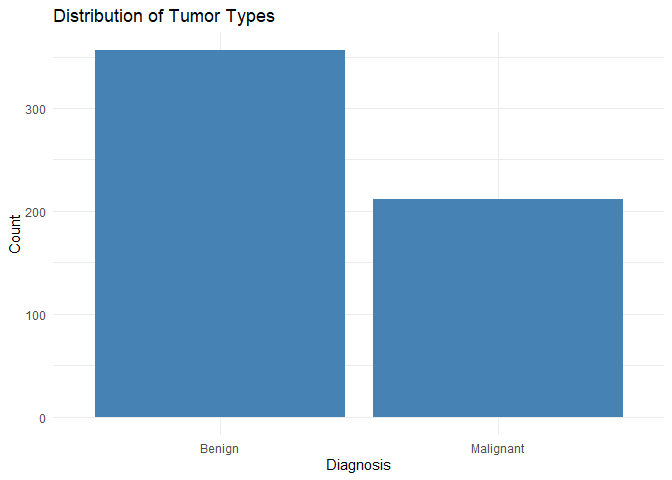
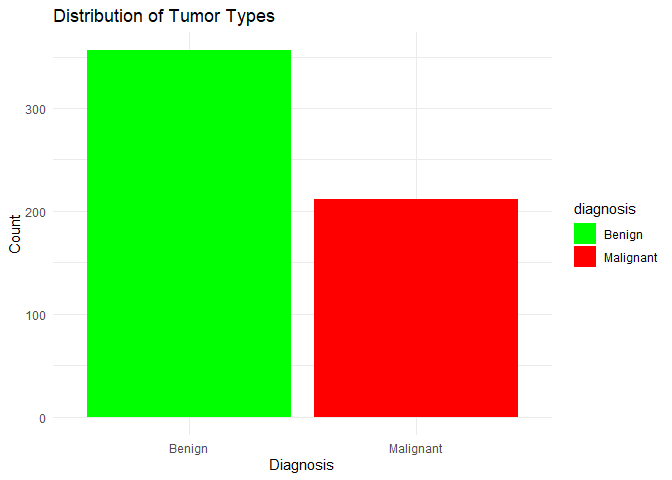
Alteration after lecturer feedback

diff --git a/README.md b/README.md
@@ -403,9 +403,10 @@ set.
 ### Visual 1 (Tumor Type Distribution Bar Plot)
 
 ``` r
-# Show how many benign vs malignant cases there are
-ggplot(dataClean, aes(x = diagnosis)) +
-  geom_bar(fill = "steelblue") +
+# Bar plot with custom colors
+ggplot(dataClean, aes(x = diagnosis, fill = diagnosis)) +
+  geom_bar() +
+  scale_fill_manual(values = c("Benign" = "green", "Malignant" = "red")) +
   labs(title = "Distribution of Tumor Types", x = "Diagnosis", y = "Count") +
   theme_minimal()
 ```
@@ -423,7 +424,7 @@ might become biased toward predicting the majority class (benign), so
 additional techniques like resampling or adjusting evaluation metrics
 may be considered in future modeling steps.
 
-### Visual 2 (Feature Correlation Heatmap)
+### Visual 2 (Feature Correlation Barplot)
 
 ``` r
 # Convert diagnosis to numeric
@@ -439,11 +440,18 @@ cor_df <- data.frame(Feature = names(cor_with_diag), Correlation = cor_with_diag
 # Sort by absolute correlation
 cor_df <- cor_df %>% arrange(desc(abs(Correlation)))
 
-ggplot(cor_df, aes(x = reorder(Feature, Correlation), y = Correlation)) +
-  geom_col(fill = "steelblue") +
+cor_df$Direction <- ifelse(cor_df$Correlation >= 0, "Malignant", "Benign")
+
+ggplot(cor_df, aes(x = reorder(Feature, Correlation), y = Correlation, fill = Direction)) +
+  geom_col() +
   coord_flip() +
-  labs(title = "Correlation of Features with Diagnosis (Malignant = 1, Benign = 0)",
-       x = "Feature", y = "Pearson Correlation") +
+  scale_fill_manual(values = c("Malignant" = "red", "Benign" = "green")) +
+  labs(
+    title = "Correlation of Features with Diagnosis (Malignant = 1, Benign = -1)",
+    x = "Feature",
+    y = "Pearson Correlation",
+    fill = "Correlation Direction"
+  ) +
   theme_minimal()
 ```
 
@@ -595,7 +603,7 @@ mean_data %>%
   geom_boxplot() +
   labs(title = "Mean Characteristics (Excluding Area) by Diagnosis",
        x = "Feature", y = "Value") +
-  scale_fill_manual(values = c("Benign" = "skyblue", "Malignant" = "salmon")) +
+  scale_fill_manual(values = c("Benign" = "green", "Malignant" = "red")) +
   theme_minimal() +
   theme(axis.text.x = element_text(angle = 45, hjust = 1))
 ```
@@ -607,7 +615,7 @@ mean_data %>%
 ggplot(mean_data, aes(x = diagnosis, y = area_mean, fill = diagnosis)) +
   geom_boxplot() +
   labs(title = "Area Mean by Diagnosis", x = "Diagnosis", y = "Area Mean") +
-  scale_fill_manual(values = c("Benign" = "skyblue", "Malignant" = "salmon")) +
+  scale_fill_manual(values = c("Benign" = "green", "Malignant" = "red")) +
   theme_minimal()
 ```
 
@@ -665,7 +673,7 @@ for (feature in top_features) {
     geom_histogram(position = "identity", alpha = 0.6, bins = 30) +
     labs(title = paste("Distribution of", feature, "by Diagnosis"),
          x = feature, y = "Count") +
-    scale_fill_manual(values = c("Benign" = "skyblue", "Malignant" = "salmon")) +
+    scale_fill_manual(values = c("Benign" = "green", "Malignant" = "red")) +
     theme_minimal() +
     theme(legend.position = "top")
 
@@ -705,7 +713,7 @@ types. The distinct separation in their distributions provides valuable
 insight into the measurable differences that can aid in accurate
 diagnosis.
 
-## Simple Logistric Regression Model
+## Simple Logistic Regression Model
 
 ``` r
 # Split data
@@ -714,42 +722,33 @@ train_idx <- createDataPartition(dataClean$diagnosis_num, p = 0.8, list = FALSE)
 train_data <- dataClean[train_idx, ]
 test_data <- dataClean[-train_idx, ]
 
-# Train logistic regression using top 5 features
-log_model <- glm(diagnosis_num ~ radius_mean + perimeter_mean + area_mean + 
-                   concavity_mean + `concave points_mean`, 
+# Train logistic regression using top 3 features
+log_model <- glm(diagnosis_num ~ radius_mean + concavity_mean + `concave points_mean`, 
                  data = train_data, family = "binomial")
-```
-
-    ## Warning: glm.fit: fitted probabilities numerically 0 or 1 occurred
-
-``` r
 summary(log_model)
 ```
 
     ## 
     ## Call:
-    ## glm(formula = diagnosis_num ~ radius_mean + perimeter_mean + 
-    ##     area_mean + concavity_mean + `concave points_mean`, family = "binomial", 
-    ##     data = train_data)
+    ## glm(formula = diagnosis_num ~ radius_mean + concavity_mean + 
+    ##     `concave points_mean`, family = "binomial", data = train_data)
     ## 
     ## Coefficients:
     ##                       Estimate Std. Error z value Pr(>|z|)    
-    ## (Intercept)            6.12554    8.17788   0.749   0.4538    
-    ## radius_mean           -2.12329    2.33922  -0.908   0.3640    
-    ## perimeter_mean        -0.01753    0.27447  -0.064   0.9491    
-    ## area_mean              0.03316    0.01403   2.364   0.0181 *  
-    ## concavity_mean        -2.10115    6.42815  -0.327   0.7438    
-    ## `concave points_mean` 91.97885   20.38786   4.511 6.44e-06 ***
+    ## (Intercept)           -13.7852     1.8442  -7.475 7.73e-14 ***
+    ## radius_mean             0.6553     0.1304   5.025 5.03e-07 ***
+    ## concavity_mean          2.9201     5.7627   0.507    0.612    
+    ## `concave points_mean`  77.0047    17.7926   4.328 1.51e-05 ***
     ## ---
     ## Signif. codes:  0 '***' 0.001 '**' 0.01 '*' 0.05 '.' 0.1 ' ' 1
     ## 
     ## (Dispersion parameter for binomial family taken to be 1)
     ## 
     ##     Null deviance: 609.93  on 454  degrees of freedom
-    ## Residual deviance: 164.65  on 449  degrees of freedom
-    ## AIC: 176.65
+    ## Residual deviance: 170.90  on 451  degrees of freedom
+    ## AIC: 178.9
     ## 
-    ## Number of Fisher Scoring iterations: 8
+    ## Number of Fisher Scoring iterations: 7
 
 ``` r
 # Predict probabilities
@@ -767,26 +766,26 @@ confusionMatrix(factor(pred_class), factor(test_data$diagnosis_num),
     ## 
     ##           Reference
     ## Prediction  0  1
-    ##          0 75  5
-    ##          1  5 28
+    ##          0 76  4
+    ##          1  4 29
     ##                                           
-    ##                Accuracy : 0.9115          
-    ##                  95% CI : (0.8433, 0.9567)
+    ##                Accuracy : 0.9292          
+    ##                  95% CI : (0.8653, 0.9689)
     ##     No Information Rate : 0.708           
-    ##     P-Value [Acc > NIR] : 1.288e-07       
+    ##     P-Value [Acc > NIR] : 5.872e-09       
     ##                                           
-    ##                   Kappa : 0.786           
+    ##                   Kappa : 0.8288          
     ##                                           
     ##  Mcnemar's Test P-Value : 1               
     ##                                           
-    ##             Sensitivity : 0.8485          
-    ##             Specificity : 0.9375          
-    ##          Pos Pred Value : 0.8485          
-    ##          Neg Pred Value : 0.9375          
+    ##             Sensitivity : 0.8788          
+    ##             Specificity : 0.9500          
+    ##          Pos Pred Value : 0.8788          
+    ##          Neg Pred Value : 0.9500          
     ##              Prevalence : 0.2920          
-    ##          Detection Rate : 0.2478          
+    ##          Detection Rate : 0.2566          
     ##    Detection Prevalence : 0.2920          
-    ##       Balanced Accuracy : 0.8930          
+    ##       Balanced Accuracy : 0.9144          
     ##                                           
     ##        'Positive' Class : 1               
     ## 
@@ -810,22 +809,24 @@ plot(roc_obj, main = "ROC Curve for Logistic Regression")
 auc(roc_obj)
 ```
 
-    ## Area under the curve: 0.9833
+    ## Area under the curve: 0.9826
 
 To evaluate how well the selected tumor characteristics can classify
 cancer as benign or malignant, we trained a logistic regression model
 using the five most correlated features identified during EDA:
-`radius_mean`, `perimeter_mean`, `area_mean`, `concavity_mean`, and
-`concave points_mean`. These features were chosen based on earlier
-boxplots and correlation plots, where they showed clear separation
-between the two diagnosis groups.
+`radius_mean`, `concavity_mean`, and `concave points_mean`. These
+features were chosen based on earlier boxplots and correlation plots,
+where they showed clear separation between the two diagnosis groups.
+`perimeter_mean` and `area_mean` are not included deal to
+multicollinearity with `radius_mean`, so only `radius_mean` is chosen
 
-The model achieved a high accuracy of 91.15%, with strong sensitivity
-(84.85%) and specificity (93.75%), indicating that it correctly
-identifies both malignant and benign cases in most situations. The ROC
-curve further supports the model’s performance, with an AUC (Area Under
-the Curve) of 0.9833, which is considered excellent and demonstrates the
-model’s strong discriminative power.
+The model achieved a high accuracy of 92.92%, with strong sensitivity
+87.88% and specificity 95.00%, indicating that it correctly identifies
+both malignant and benign cases in most situations. The ROC curve
+further supports the model’s performance, with an AUC (Area Under the
+Curve) of 0.9826, which is considered excellent and demonstrates the
+model’s strong discriminative power. The accuracy are testing accuracy
+and all other metrics are also test set performance.
 
 These results reinforce the potential of using imaging-derived features
 to predict cancer type, offering a less invasive and more accessible
@@ -860,9 +861,9 @@ indicators of tumor type.
 characteristics?**
 
 Yes. As demonstrated in Visual 7 (Simple Logistic Regression Model),
-using five selected features (radius_mean, perimeter_mean, area_mean,
-concavity_mean, and concave points_mean), the model achieved 91.15%
-accuracy with an AUC of 0.9833. This shows that these features can
+using three selected features (radius_mean, perimeter_mean, area_mean,
+concavity_mean, and concave points_mean), the model achieved 92.92%
+accuracy with an AUC of 0.9826. This shows that these features can
 reliably be used to predict tumor type.
 
 **4. Is it possible to speed up the process of identifying whether a
